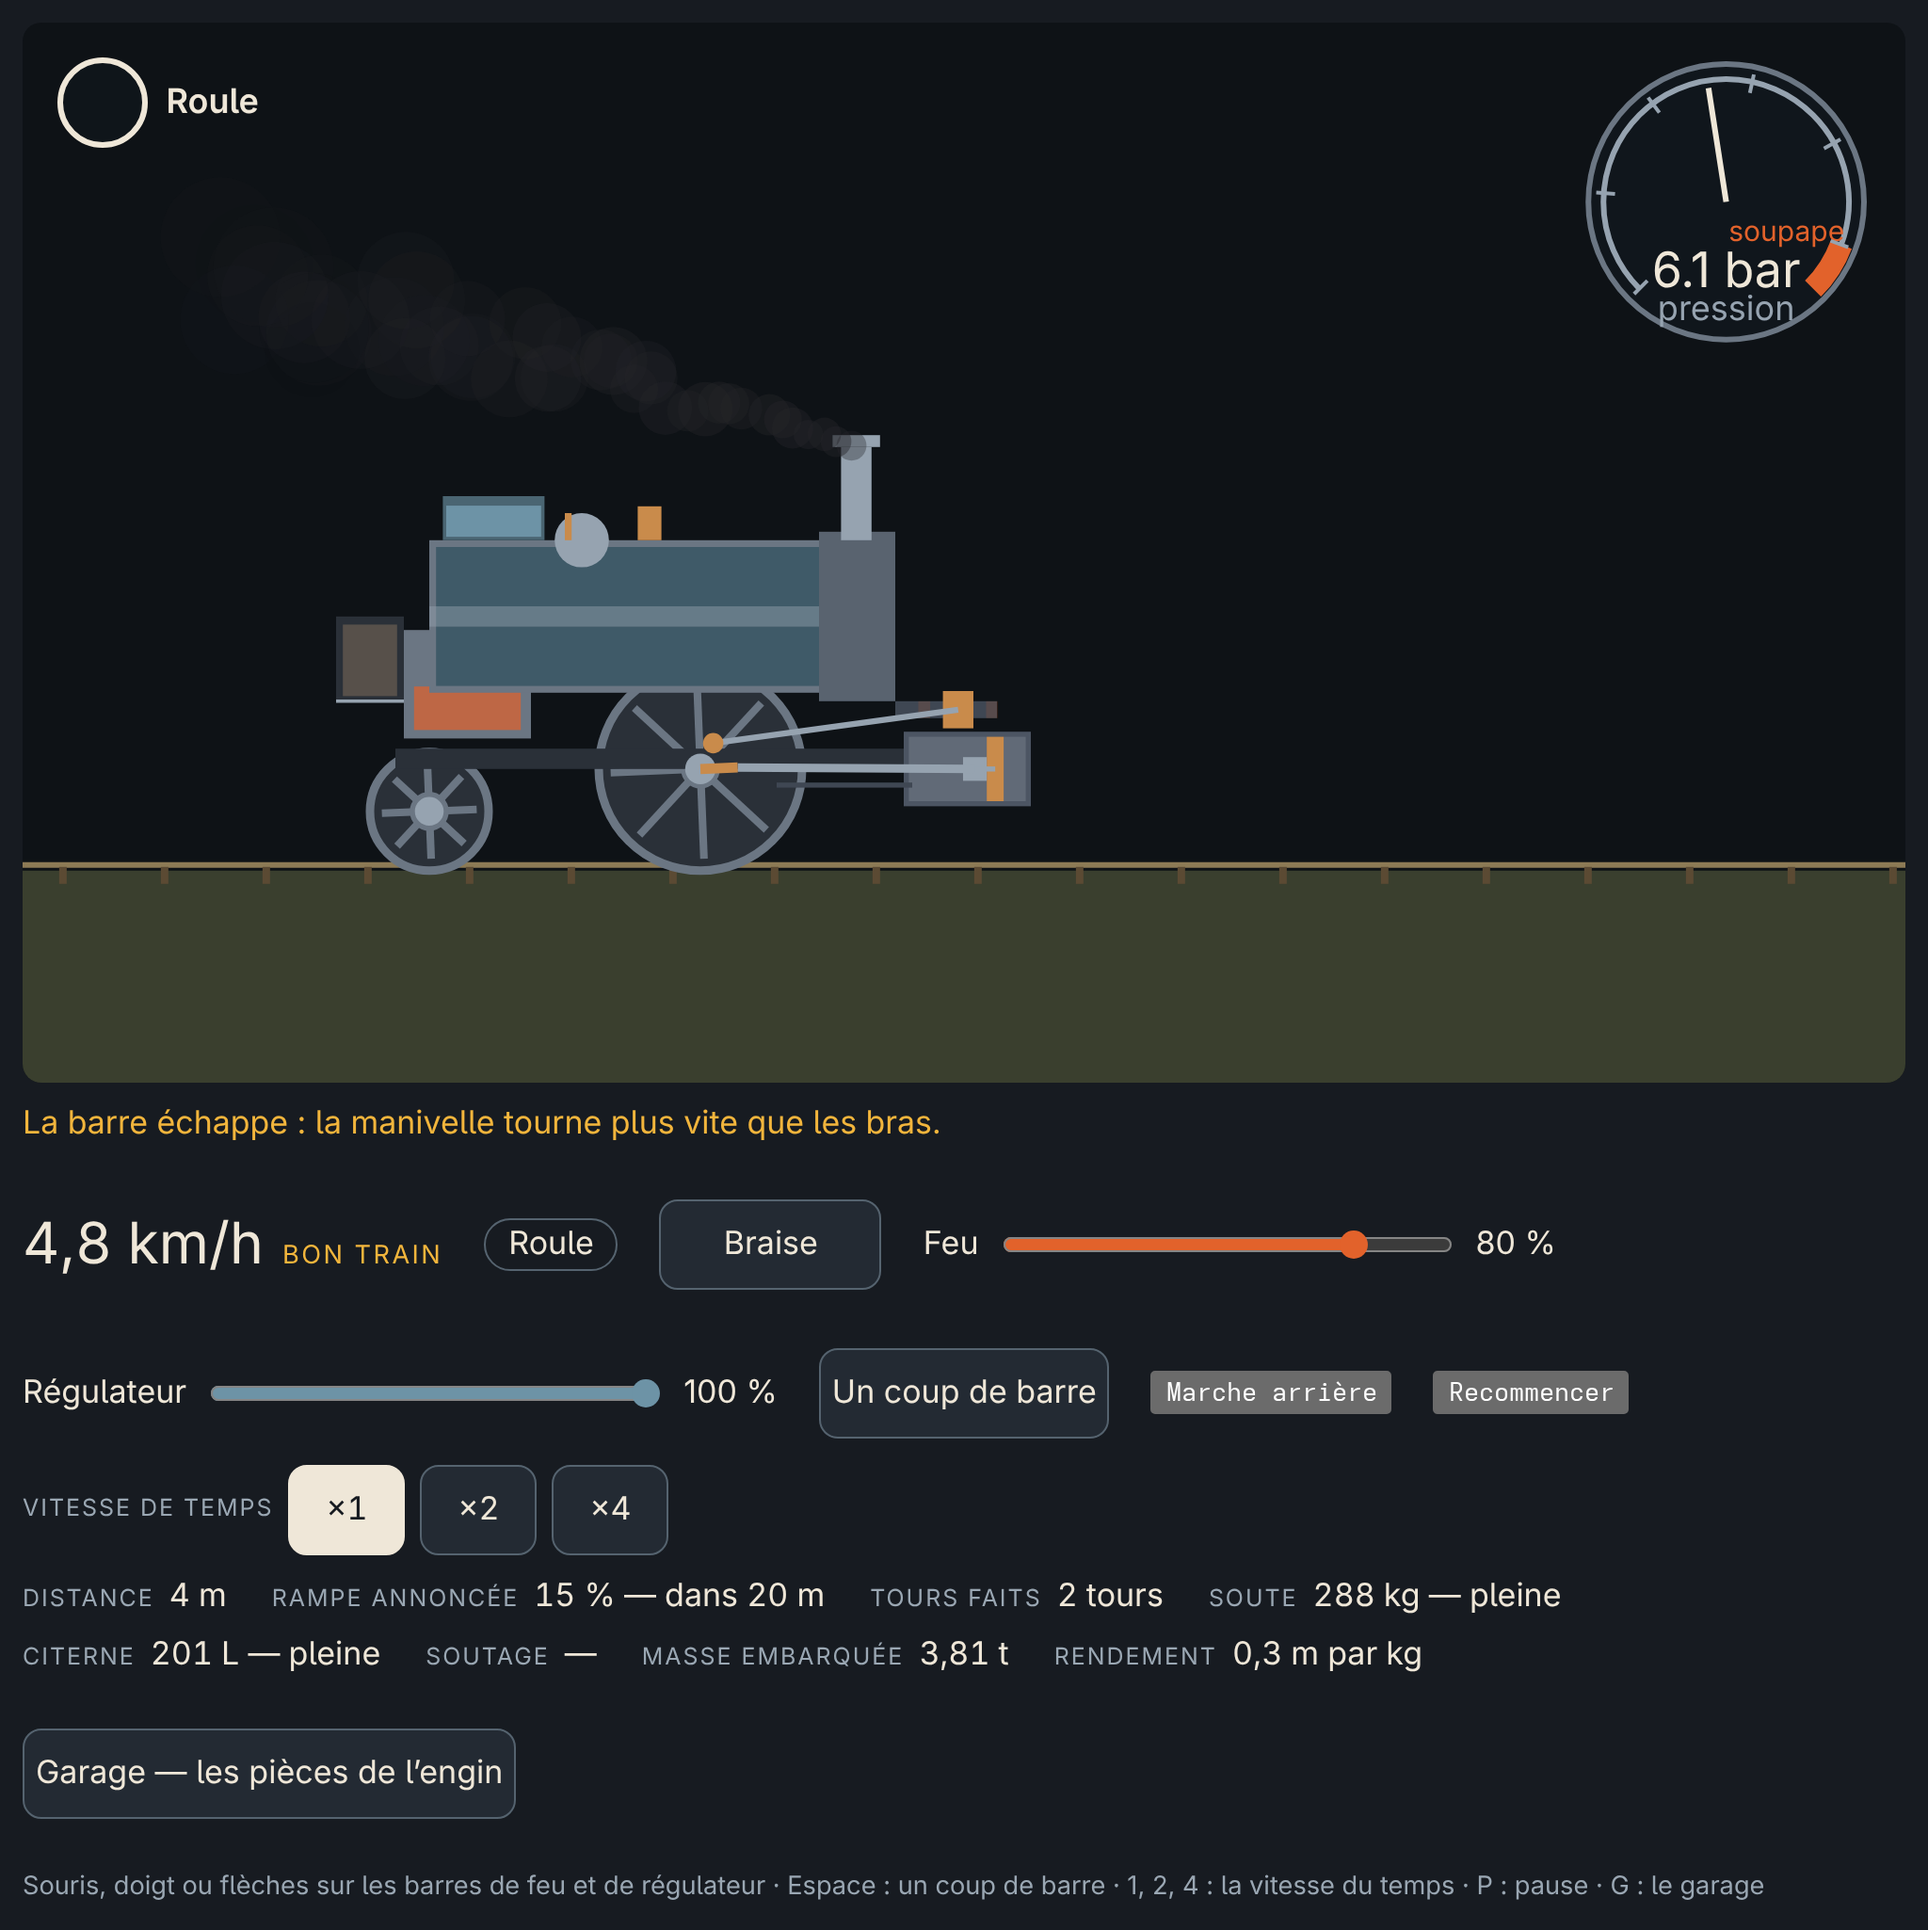
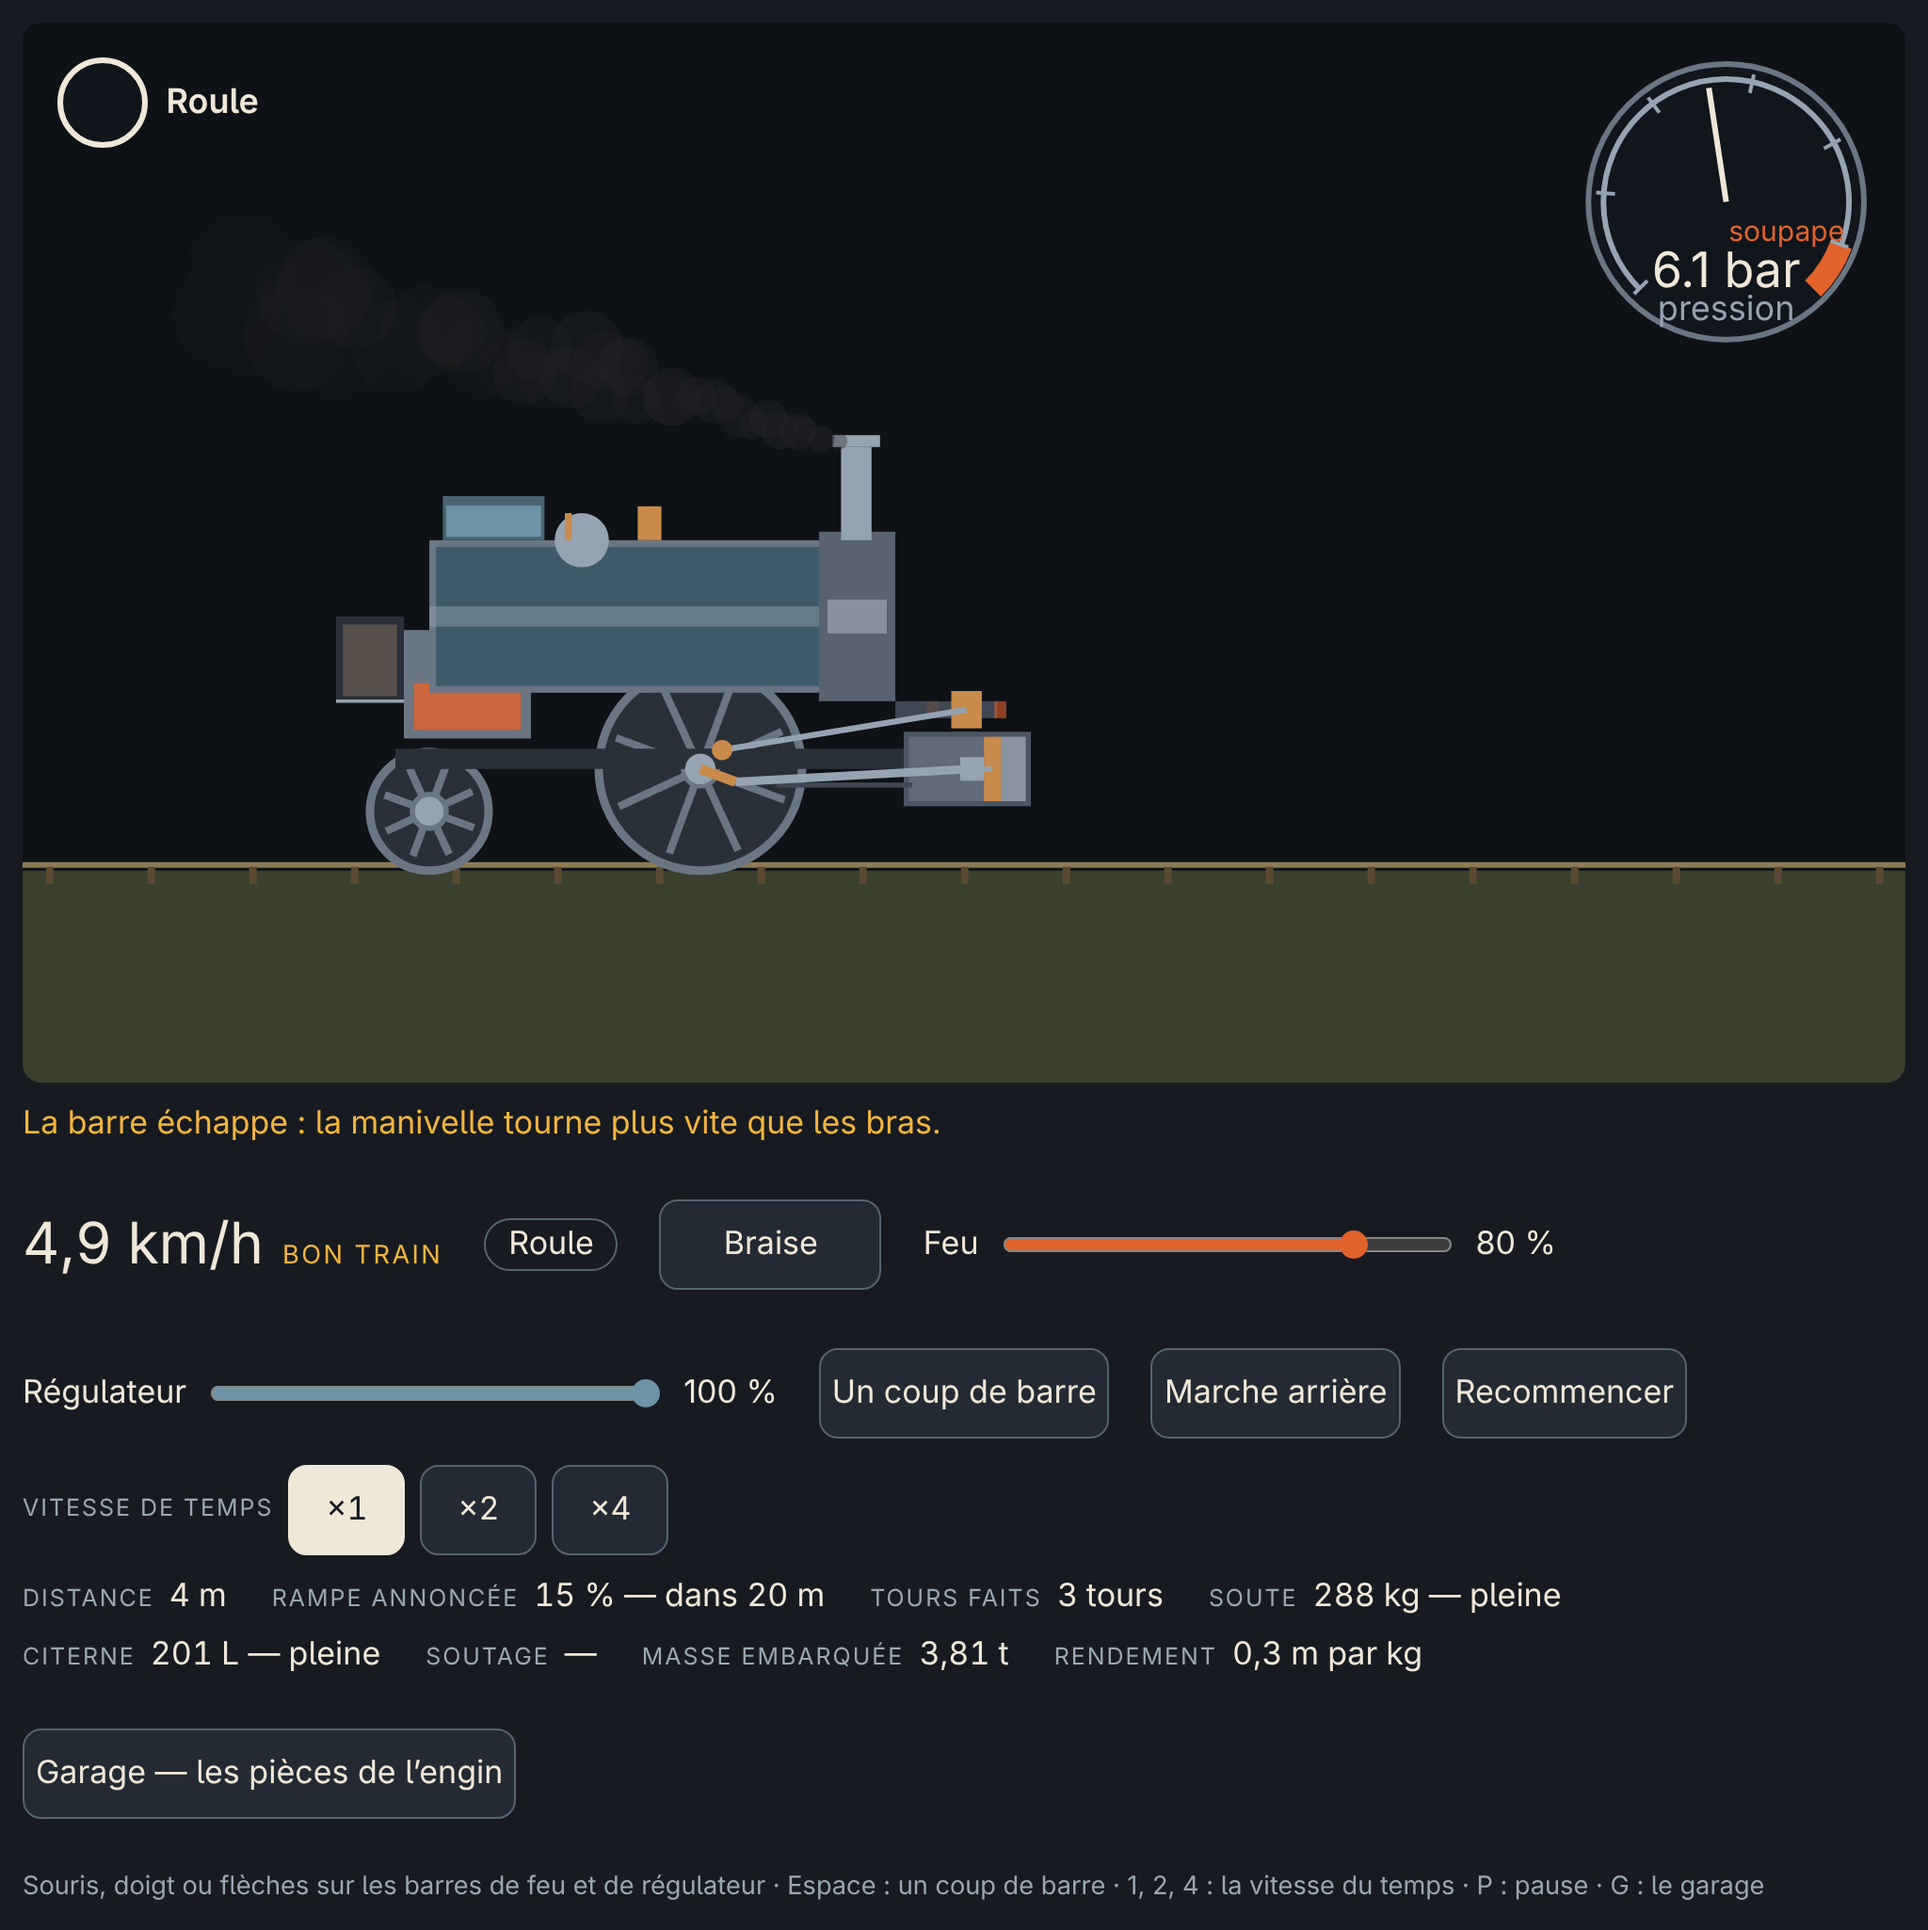
Les trois boutons nes apres l'audit portent leurs 48 px
Marche arriere, circuit ferme et recommencer etaient rendus a 23 px de haut :
aucune regle de cible tactile ne les accompagnait, contrairement a la barre et
a la pompe. Un pouce d'enfant ne vise pas un bouton de 23 px — c'est la regle
du projet, et c'est ma passe visuelle qui l'a vu, pas une promesse.

La meme regle les habille maintenant (48 px, fond sombre, etat embraye au fond
bleu comme la pompe), et les trois captures du depot sont reprises avec.

131 promesses vertes.

diff --git a/index.html b/index.html
@@ -46,6 +46,11 @@
        menu à apprendre pour rien. */
     #pompe { min-height: 48px; min-width: 150px; border-radius: 10px; border: 1px solid #55636f; background: #232a33; color: inherit; font: inherit; }
     #pompe[aria-pressed="true"] { background: #6d93a6; color: #171b21; border-color: #6d93a6; }
+    /* Les trois boutons nés après l'audit (#11, #12, #14) portent la même cible de
+       48 px que la barre et la pompe : un pouce d'enfant ne vise pas un bouton de
+       23 px. Leur état embrayé se lit au fond, comme la pompe et les paliers. */
+    #marche-arriere, #circuit, #recommencer { min-height: 48px; min-width: 120px; border-radius: 10px; border: 1px solid #55636f; background: #232a33; color: inherit; font: inherit; }
+    #marche-arriere[aria-pressed="true"], #circuit[aria-pressed="true"] { background: #6d93a6; color: #171b21; border-color: #6d93a6; }
     /* Les paliers du temps : trois boutons, trois cibles de 48 px. */
     #vitesse-temps { margin: 0; display: flex; align-items: center; gap: 8px; }
     .palier { min-height: 48px; min-width: 62px; border-radius: 10px; border: 1px solid #55636f; background: #232a33; color: inherit; font: inherit; font-variant-numeric: tabular-nums; }
